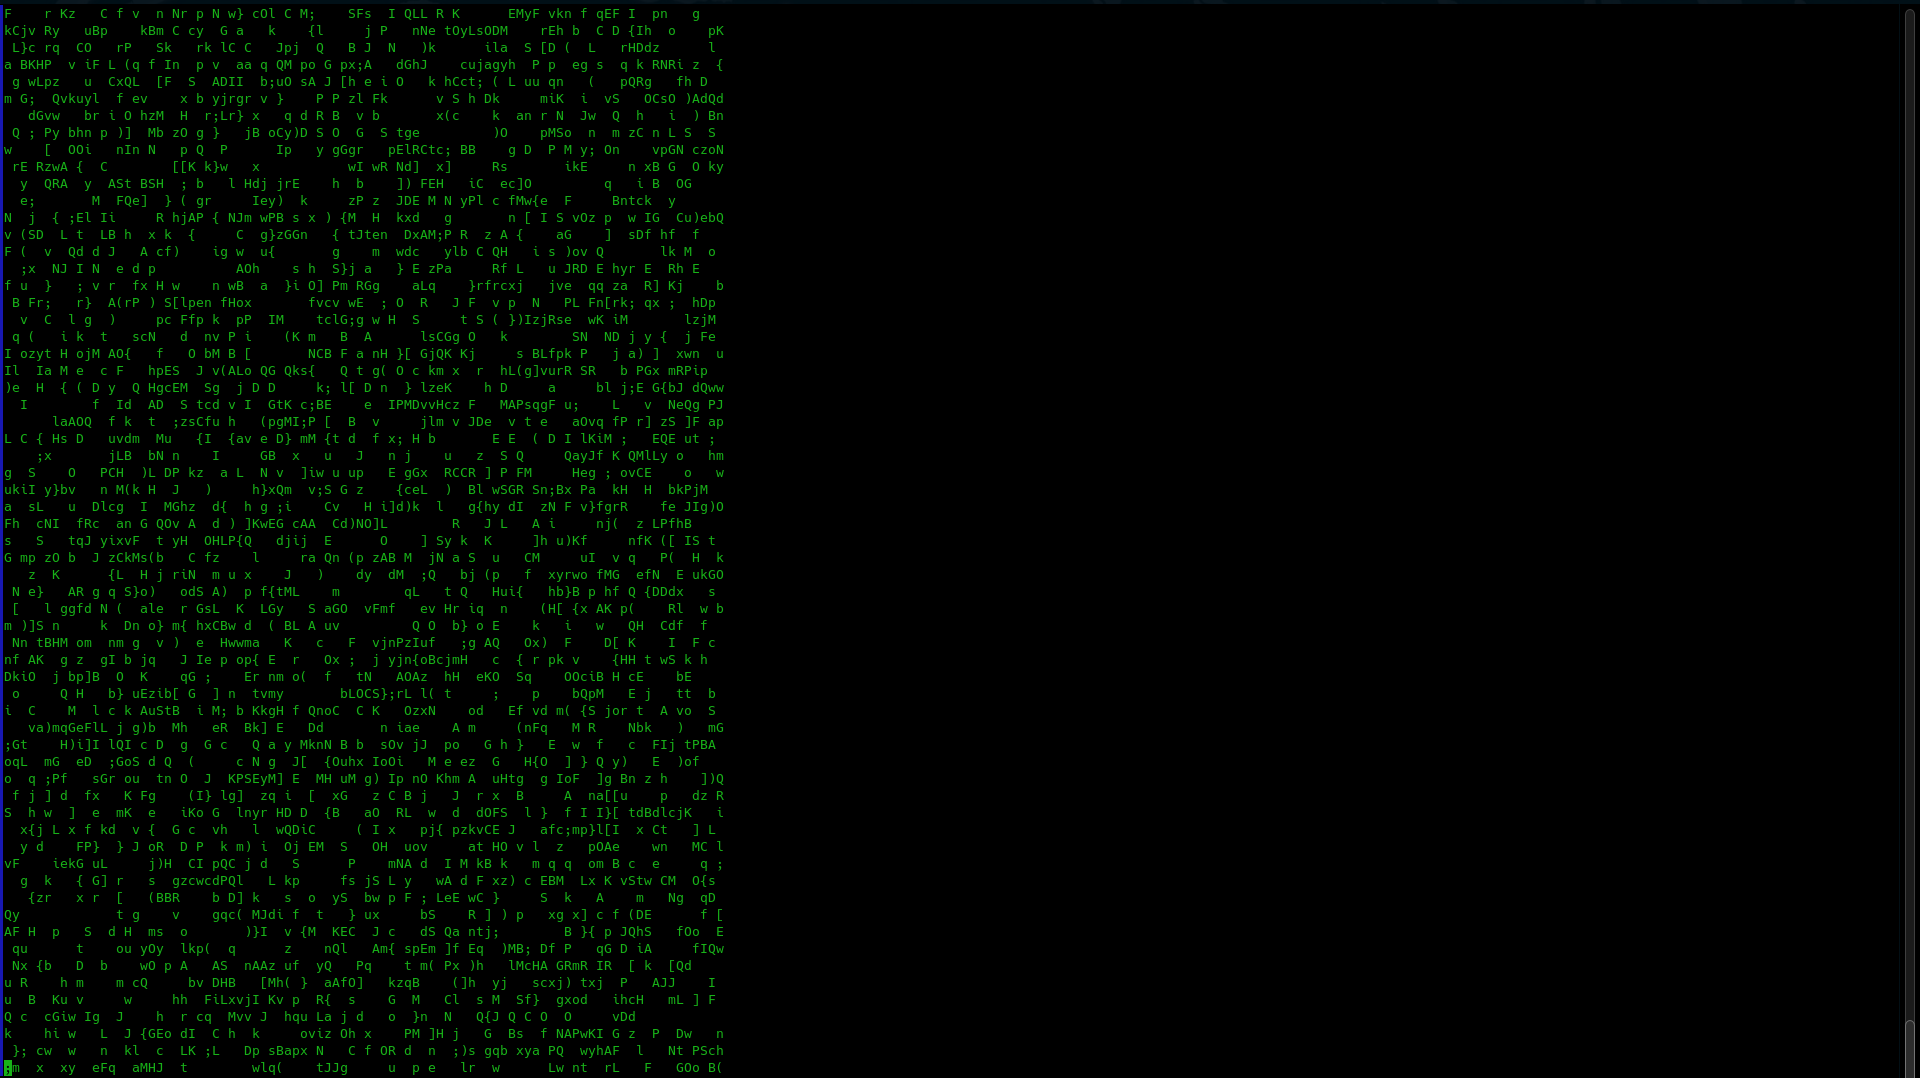
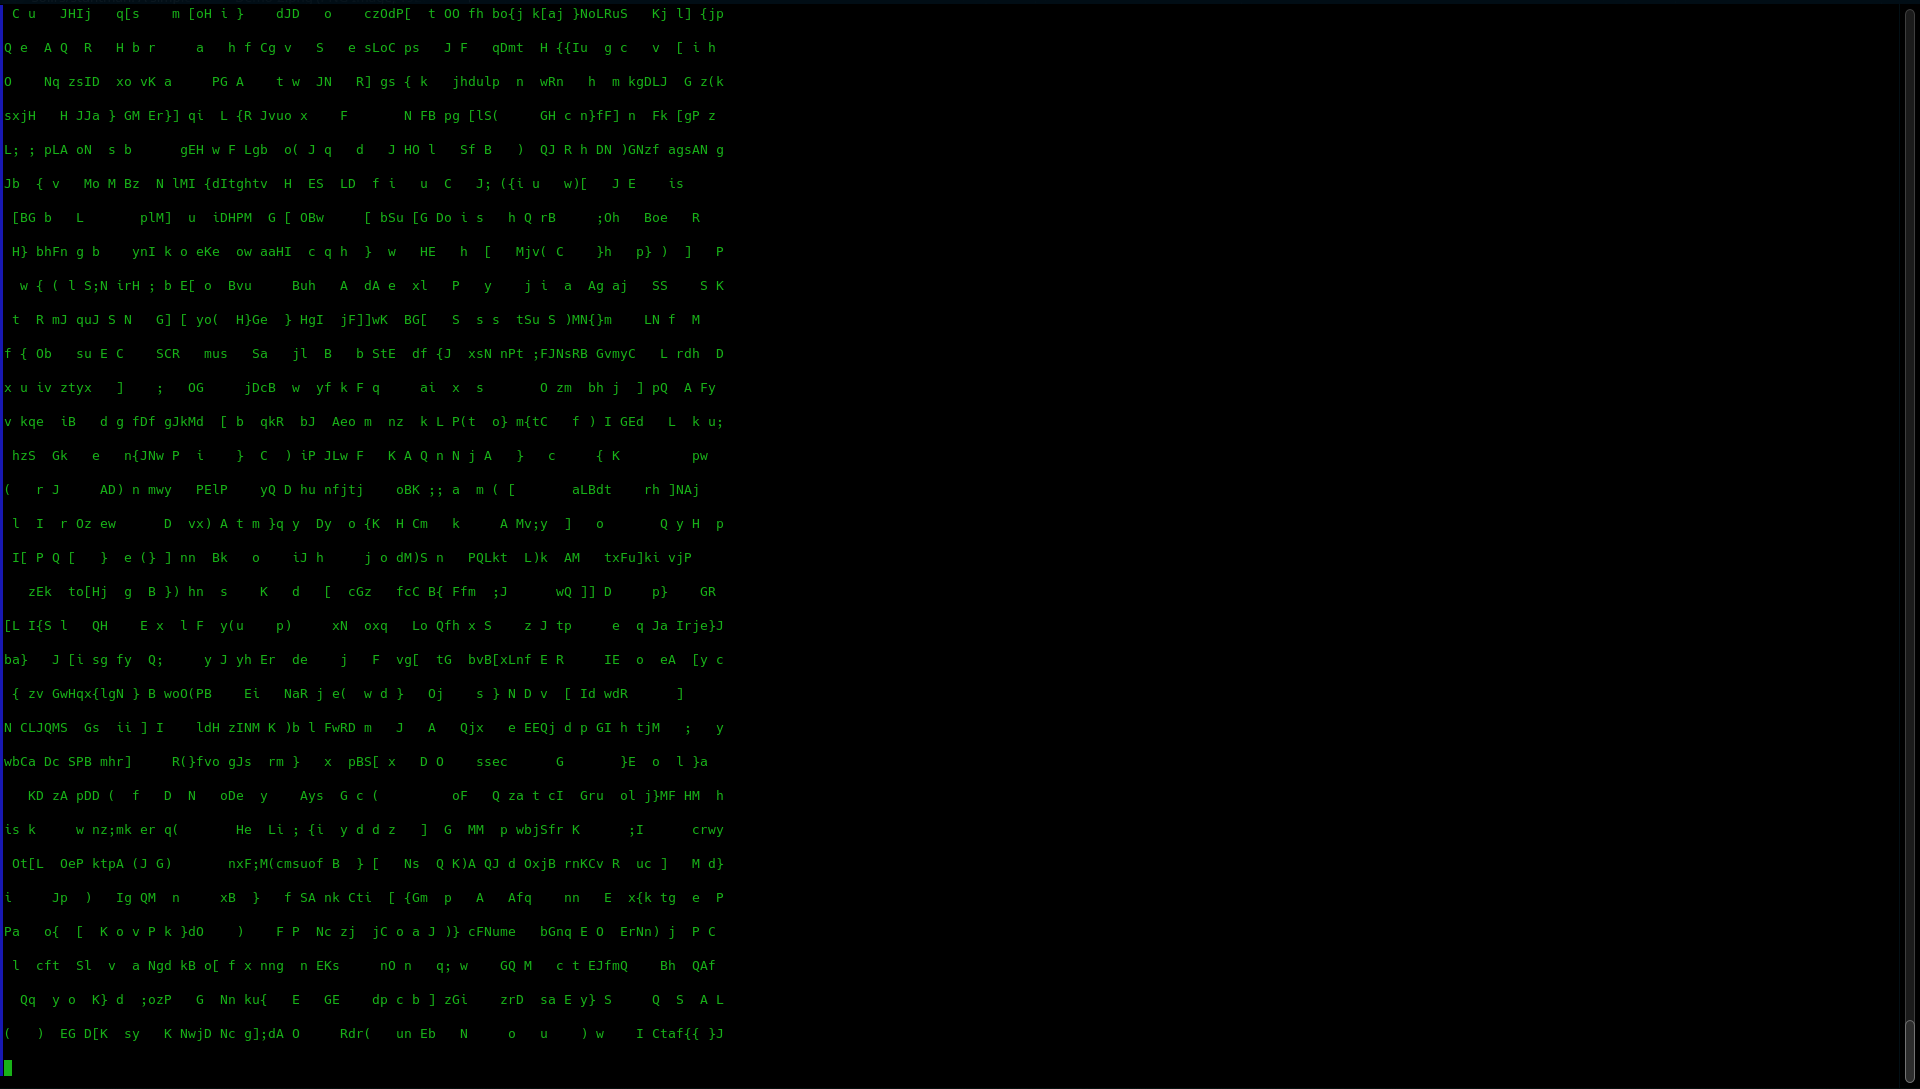
Fixed a bug about the vertgap flag and the demo

Changed region(s): [[0.0, 0.0, 0.375, 1.0]]

diff --git a/effects/effects.go b/effects/effects.go
@@ -19,19 +19,18 @@ func Randbin() {
 }
 
 func Binary() {
-	for true {
+	for  {
 		Randbin()
 
 
 		fmt.Println(strings.Trim(fmt.Sprint(inc.Arrl), "[]")) //Remove the stupid brackets when you print an array and print it
 		time.Sleep(time.Duration(inc.Speed)* time.Millisecond) //Sleep the amount of time specified in the speed flag
-		if inc.Vgap < 0 {
 			for i := 0; i < inc.Vgap; i++ {
 
 				fmt.Println() //Print an empty line the amount of times specified in the vgap flag
 
 			}
-		}
+		
 
 	}
 
@@ -65,12 +64,11 @@ func RandString(){
 	}
 	fmt.Println(string(Strdrop))
 	time.Sleep(time.Duration(inc.Speed)* time.Millisecond) //Sleep the amount of time specified in the speed flag
-	if inc.Vgap < 0 {
 		for i := 0; i < inc.Vgap; i++ {
 
 			fmt.Println() //Print an empty line the amount of times specified in the vgap flag
 
 		}
-	}
+	
 
 }
